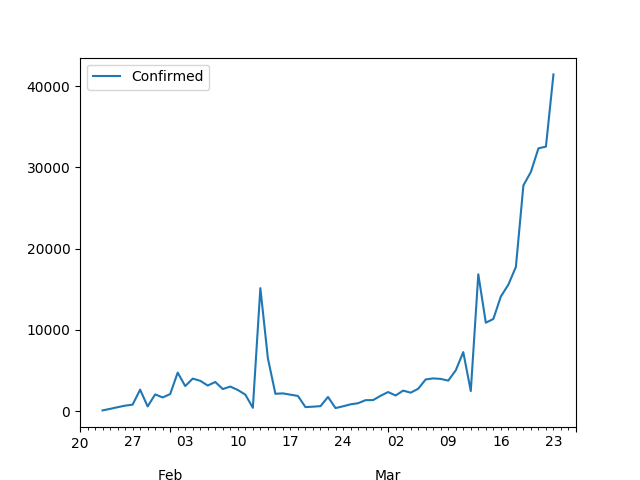
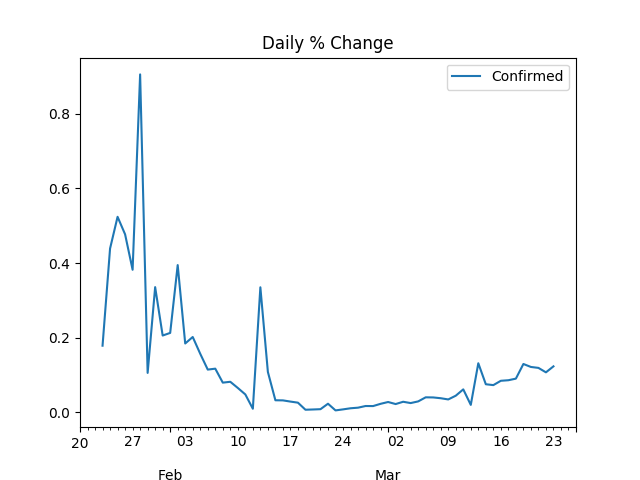
-

diff --git a/en/2020/02/corona.md b/en/2020/02/corona.md
@@ -301,7 +301,8 @@ Date
 
 
 ```python
-confirmed.diff().plot()
+confirmed.pct_change().plot()
+plt.title('Daily % Change')
 plt.savefig('rate.png')
 ```
 
